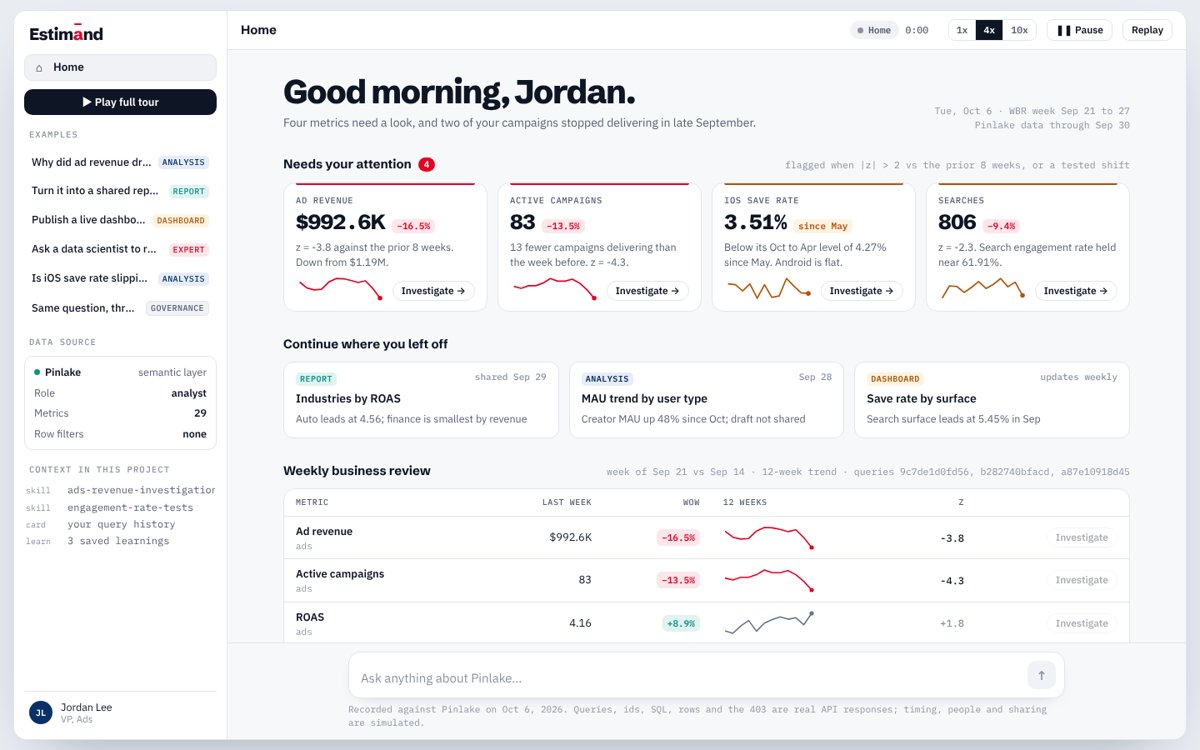
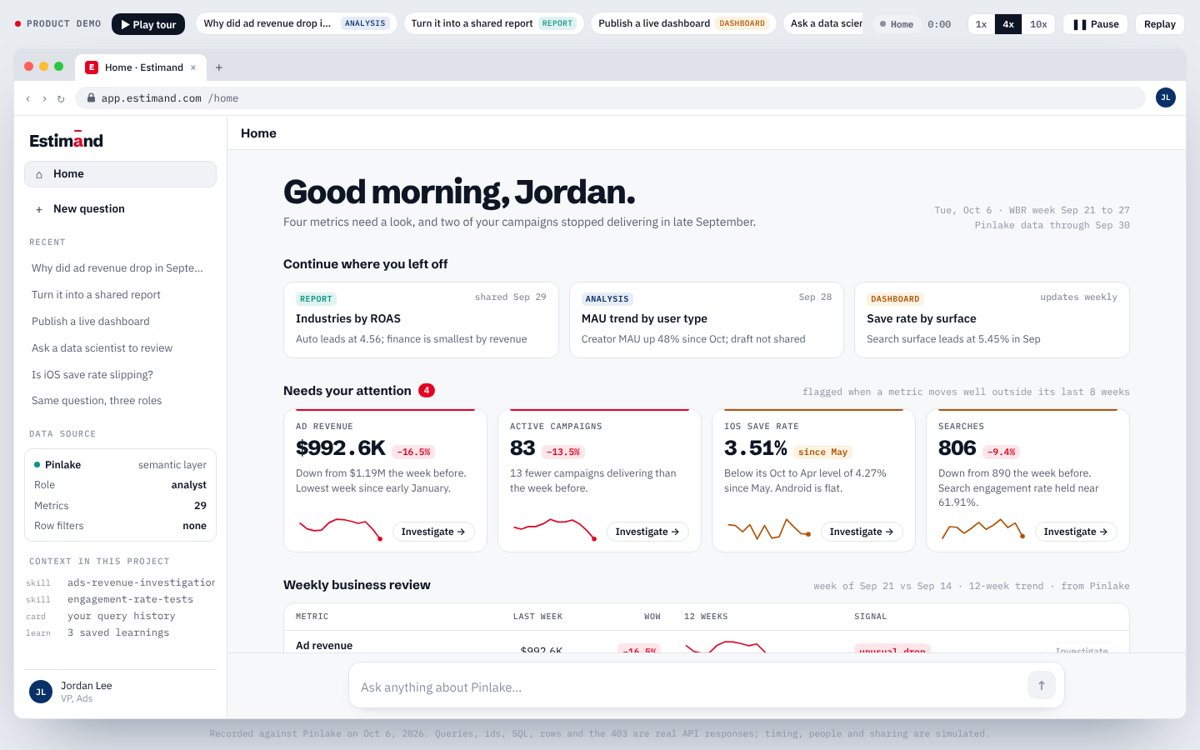
Estimand: browser frame with app.estimand.com routes, demo controls outside the app
Claude-Session: https://claude.ai/code/session_016vZX4AaXxGSjYdVQmr75ag

diff --git a/estimand/index.html b/estimand/index.html
@@ -15,6 +15,7 @@
 :root{
   --bg:#e9ecf1; --app:#f7f8fa; --surface:#ffffff; --sunk:#f0f2f6; --ink:#0e1525; --muted:#586174; --faint:#8b93a3; --line:#e1e5ec;
   --accent:#e60023; --accent-bg:#fde6ea; --navy:#0a3069; --navy-bg:#e6edf8; --teal:#0d9488; --teal-bg:#e0f3f0; --slate:#64748b; --amber:#b45309; --amber-bg:#fdf3e2;
+  --chrome:#dfe3e9;
   --code-bg:#0e1525; --code-ink:#d7deea; --code-k:#8fb0ff; --code-s:#5fd3c2; --code-c:#7f8aa0;
   --f-display:"Schibsted Grotesk","Helvetica Neue",Arial,sans-serif;
   --f-body:"IBM Plex Sans",system-ui,-apple-system,"Segoe UI",sans-serif;
@@ -23,11 +24,11 @@
 @media (prefers-color-scheme: dark){:root:not([data-theme="light"]){
   --bg:#05070c; --app:#0c1018; --surface:#121825; --sunk:#0f141e; --ink:#e7ebf2; --muted:#9aa3b5; --faint:#6b7486; --line:#232b3b;
   --accent:#ff3355; --accent-bg:#3a1520; --navy:#8fb0ff; --navy-bg:#16223a; --teal:#3cc9b6; --teal-bg:#0f2d2a; --slate:#8794aa; --amber:#f0b158; --amber-bg:#2e2412;
-  --code-bg:#070a10; color-scheme:dark}}
+  --chrome:#161b26; --code-bg:#070a10; color-scheme:dark}}
 :root[data-theme="dark"]{
   --bg:#05070c; --app:#0c1018; --surface:#121825; --sunk:#0f141e; --ink:#e7ebf2; --muted:#9aa3b5; --faint:#6b7486; --line:#232b3b;
   --accent:#ff3355; --accent-bg:#3a1520; --navy:#8fb0ff; --navy-bg:#16223a; --teal:#3cc9b6; --teal-bg:#0f2d2a; --slate:#8794aa; --amber:#f0b158; --amber-bg:#2e2412;
-  --code-bg:#070a10; color-scheme:dark}
+  --chrome:#161b26; --code-bg:#070a10; color-scheme:dark}
 *{box-sizing:border-box}
 html,body{height:100%}
 body{background:var(--bg);color:var(--ink);font:400 14.5px/1.55 var(--f-body);-webkit-font-smoothing:antialiased;padding-block:12px;padding-inline:16px}
@@ -340,6 +341,52 @@ code{font-family:var(--f-mono);font-size:.88em}
 @media (max-width:1100px){.flags{grid-template-columns:repeat(2,minmax(0,1fr))}}
 @media (max-width:820px){.cont{grid-template-columns:minmax(0,1fr)} .wbr tr .inv{opacity:1}}
 @media (max-width:520px){.flags{grid-template-columns:minmax(0,1fr)}}
+/* stage, demo strip, browser */
+html,body{height:100%}
+body{margin:0}
+.stage{height:100%;max-width:1500px;margin:0 auto;display:flex;flex-direction:column;gap:10px;min-height:0}
+.demo{display:flex;align-items:center;gap:8px 12px;flex-wrap:wrap;padding:2px 2px}
+.dlbl{display:inline-flex;align-items:center;gap:7px;font:600 11px/1 var(--f-mono);letter-spacing:.08em;text-transform:uppercase;color:var(--muted)}
+.dlbl i{width:7px;height:7px;border-radius:50%;background:var(--accent)}
+.demo .tour{padding:7px 11px;font-size:12.5px}
+.demo .exs{flex-direction:row;flex-wrap:nowrap;overflow-x:auto;gap:6px;flex:1 1 300px;min-width:0;scrollbar-width:none}
+.demo .exs::-webkit-scrollbar{display:none}
+.demo .exs button{display:inline-flex;grid-template-columns:none;width:auto;gap:6px;padding:5px 9px;border:1px solid var(--line);background:var(--surface);border-radius:999px;white-space:nowrap}
+.demo .exs b{font-size:12px;font-weight:500;max-width:22ch}
+.demo .exs em{font-size:9.5px}
+.demo .exs button[aria-current="true"]{border-color:var(--ink);background:var(--ink);color:var(--surface)}
+.demo .exs button[aria-current="true"] em{background:rgba(255,255,255,.18);color:inherit}
+.dctl{display:flex;align-items:center;gap:8px;flex-wrap:wrap;margin-left:auto}
+.browser{flex:1;min-height:0;width:100%;display:flex;flex-direction:column;background:var(--chrome);border:1px solid var(--line);border-radius:12px;overflow:hidden;box-shadow:0 1px 0 rgba(255,255,255,.4) inset,0 40px 80px -40px rgba(10,30,60,.5)}
+.bchrome{display:flex;align-items:flex-end;gap:14px;padding:8px 12px 0}
+.lights{display:flex;gap:7px;padding-bottom:12px}
+.lights i{width:11px;height:11px;border-radius:50%;background:#ff5f57}
+.lights i:nth-child(2){background:#febc2e}.lights i:nth-child(3){background:#28c840}
+.tabs{display:flex;align-items:flex-end;gap:6px;min-width:0;flex:1}
+.tab{display:flex;align-items:center;gap:8px;background:var(--surface);border-radius:9px 9px 0 0;padding:8px 12px;min-width:0;max-width:280px;font:500 12px/1 var(--f-body);color:var(--ink)}
+.tab .tt2{white-space:nowrap;overflow:hidden;text-overflow:ellipsis;min-width:0}
+.fav{flex:none;width:16px;height:16px;border-radius:4px;background:var(--accent);color:#fff;display:grid;place-items:center;font:800 10px/1 var(--f-display)}
+.tx{color:var(--faint);font-size:13px;margin-left:auto}
+.tadd{color:var(--muted);font:400 16px/1 var(--f-mono);padding:0 4px 9px}
+.btool{display:flex;align-items:center;gap:12px;background:var(--surface);padding:7px 12px;border-bottom:1px solid var(--line)}
+.bnav{display:flex;gap:10px;font:400 16px/1 var(--f-mono);color:var(--faint)}
+.bnav b{font-weight:400}
+.url{flex:1;min-width:0;display:flex;align-items:center;gap:7px;background:var(--sunk);border-radius:999px;padding:6px 14px;font:400 12.5px/1.2 var(--f-mono);overflow:hidden;white-space:nowrap}
+.url .host{color:var(--ink)}
+.url .path{color:var(--muted);overflow:hidden;text-overflow:ellipsis;transition:color .4s}
+.url .path.new{color:var(--accent)}
+.bav{flex:none;width:24px;height:24px;border-radius:50%;background:var(--navy);color:#fff;display:grid;place-items:center;font:600 9.5px/1 var(--f-mono)}
+.bload{height:2px;background:var(--surface);position:relative;overflow:hidden}
+.bload i{position:absolute;left:0;top:0;bottom:0;width:0;background:var(--accent)}
+.bload.go i{animation:load .7s ease-out forwards}
+@keyframes load{0%{width:0;opacity:1}80%{width:100%;opacity:1}100%{width:100%;opacity:0}}
+.browser .app{flex:1;height:auto;min-height:0;max-width:none;width:100%;margin:0;border:0;border-radius:0;box-shadow:none}
+.recent{list-style:none;margin:0;padding:0;display:flex;flex-direction:column;gap:1px}
+.recent button{width:100%;text-align:left;border:0;background:none;border-radius:8px;padding:7px 9px;font:400 13px/1.3 var(--f-body);color:var(--muted);white-space:nowrap;overflow:hidden;text-overflow:ellipsis}
+.recent button:hover{background:var(--sunk);color:var(--ink)}
+.recent button[aria-current="true"]{background:var(--sunk);color:var(--ink);font-weight:500}
+.cap{margin:0;text-align:center;font:400 11px/1.4 var(--f-mono);color:var(--faint)}
+@media (max-width:820px){.bchrome{display:none}.browser{border-radius:0;border-inline:0}.demo{padding-inline:12px}.cap{padding-inline:12px}.dctl{margin-left:0}}
 @media (max-width:1100px){
   .app,.app.dopen{grid-template-columns:232px minmax(0,1fr)}
   .drawer{position:absolute;inset:0 0 0 auto;width:min(620px,100%);z-index:25;transform:translateX(105%);transition:transform .4s ease;box-shadow:-20px 0 50px -30px rgba(0,0,0,.5)}
@@ -359,13 +406,29 @@ code{font-family:var(--f-mono);font-size:.88em}
 <body>
 
 
+<div class="stage">
+<div class="demo" aria-label="Demo controls">
+  <span class="dlbl"><i></i>Product demo</span>
+  <button class="tour" type="button" id="tour">▶ Play tour</button>
+  <ul class="exs" id="exs"></ul>
+  <div class="dctl">
+      <div class="rec" aria-live="polite"><span class="live" id="live"><i></i><span id="liveT">Replaying</span></span><span class="clock" id="clock">0:00</span></div>
+      <div class="seg" role="group" aria-label="Playback speed"><button type="button" data-sp="1" aria-pressed="false">1x</button><button type="button" data-sp="4" aria-pressed="true">4x</button><button type="button" data-sp="10" aria-pressed="false">10x</button></div>
+      <button class="pz" type="button" id="pause" aria-pressed="false">❚❚ Pause</button>
+      <button class="rp" type="button" id="replay">Replay</button>
+  </div>
+</div>
+<div class="browser">
+  <div class="bchrome"><span class="lights" aria-hidden="true"><i></i><i></i><i></i></span><div class="tabs"><div class="tab"><span class="fav">E</span><span class="tt2" id="tabT">Home · Estimand</span><span class="tx" aria-hidden="true">×</span></div><span class="tadd" aria-hidden="true">+</span></div></div>
+  <div class="btool"><span class="bnav" aria-hidden="true"><b>‹</b><b>›</b><b>↻</b></span><div class="url" id="url"><svg width="11" height="12" viewBox="0 0 11 12" aria-hidden="true"><rect x="1" y="5" width="9" height="6.5" rx="1.5" style="fill:var(--muted)"/><path d="M3 5V3.6a2.5 2.5 0 015 0V5" style="fill:none;stroke:var(--muted);stroke-width:1.4"/></svg><span class="host">app.estimand.com</span><span class="path" id="urlP">/home</span></div><span class="bav" id="tbAv">JL</span></div>
+  <div class="bload" id="bload"><i></i></div>
 <div class="app" id="app">
   <aside class="side" aria-label="Sidebar">
     <span class="logo">Estim<span class="hat">a</span>nd</span>
     <button class="navb" type="button" id="homeB" aria-current="true"><i>⌂</i>Home</button>
-    <button class="tour" type="button" id="tour">▶ Play full tour</button>
-    <div class="slbl">Examples</div>
-    <ul class="exs" id="exs"></ul>
+    <button class="navb" type="button" id="newB"><i>+</i>New question</button>
+    <div class="slbl">Recent</div>
+    <ul class="recent" id="recent"></ul>
     <div class="slbl">Data source</div>
     <div class="src" id="src">
       <div class="row"><b><span class="dot"></span>Pinlake</b><span>semantic layer</span></div>
@@ -386,20 +449,19 @@ code{font-family:var(--f-mono);font-size:.88em}
   <section class="main" id="main">
     <div class="mbar">
       <h1 id="ttl">New question</h1>
-      <div class="rec" aria-live="polite"><span class="live" id="live"><i></i><span id="liveT">Replaying</span></span><span class="clock" id="clock">0:00</span></div>
-      <div class="seg" role="group" aria-label="Playback speed"><button type="button" data-sp="1" aria-pressed="false">1x</button><button type="button" data-sp="4" aria-pressed="true">4x</button><button type="button" data-sp="10" aria-pressed="false">10x</button></div>
-      <button class="pz" type="button" id="pause" aria-pressed="false">❚❚ Pause</button>
-      <button class="rp" type="button" id="replay">Replay</button>
+
     </div>
     <div class="thread" id="thread"><div class="tin" id="tin"></div></div>
     <div class="comp">
       <div class="box" id="box"><div class="inp" id="inp"><span class="ph">Ask about ads, engagement, search or growth…</span></div><button class="send" id="send" type="button" aria-label="Send">↑</button></div>
-      <div class="chint">Recorded against Pinlake on Oct 6, 2026. Queries, ids, SQL, rows and the 403 are real API responses; timing, people and sharing are simulated.</div>
     </div>
   </section>
 
   <aside class="drawer" id="drawer" aria-label="Artifact"></aside>
   <div class="cur" id="cur" aria-hidden="true"><svg width="22" height="22" viewBox="0 0 22 22"><path d="M3 2l14 8-6.2 1.6L8 18z" style="fill:#0e1525;stroke:#fff;stroke-width:1.4;stroke-linejoin:round"/></svg></div>
+</div>
+</div>
+<p class="cap">Recorded against Pinlake on Oct 6, 2026. Queries, ids, SQL, rows and the 403 are real API responses; timing, people and sharing are simulated.</p>
 </div>
 
 <script>
@@ -593,7 +655,7 @@ const SECS=[
  ["What to watch","chart",()=>`<div class="chart">${daily()}</div><p>Sep 30 ran at ${K(F.sep30_rev)} a day across ${F.sep30_camps} campaigns. October opens lower unless new campaigns launch.</p>`],
  ["Method","6 queries",()=>`<p>Six governed queries against Pinlake's <code>/v1/query</code>; campaigns matched across months; totals reconciled to the cent. Open question: Pinlake has no planned campaign end dates.</p>`]];
 async function buildReport(){
- openDrawer(REPORT());await sleep(700);const doc=$("#doc");
+ openDrawer(REPORT());route("/reports/sep-ad-revenue-campaign-turnover","September ad revenue report");await sleep(700);const doc=$("#doc");
  for(const [h,tag,f] of SECS){const s=el("div","sec",`<h3>${h}${tag?` <span>${tag}</span>`:""}</h3><div class="pend"></div><div class="pend"></div>`);doc.appendChild(s);$(".dbody").scrollTop=1e6;await sleep(700);s.innerHTML=`<h3>${h}${tag?` <span>${tag}</span>`:""}</h3>${f()}`;await sleep(500)}
  $(".dbody").scrollTop=0}
 
@@ -609,12 +671,17 @@ const DASH=()=>{const lowDays=D.daily.d.filter((d,i)=>D.daily.rev[i]<THR);return
 </div></div>`};
 const KPIS=[["Ad revenue, Sep",M(F.sep_total),sg(dropPct)+" vs Aug","dn"],["Daily revenue, Sep 30",K(F.sep30_rev),"below $130K alert line","dn",1],["Active campaigns, Sep 30",String(F.sep30_camps),"Aug avg "+Math.round(F.aug_avg_camps),"dn"],["ROAS, Sep",F.roas_sep.toFixed(2),"12-month high","up"]];
 async function buildDash(){
- openDrawer(DASH());await sleep(600);const k=$("#kpis");
+ openDrawer(DASH());route("/dashboards/ads-health","Ads Health");await sleep(600);const k=$("#kpis");
  for(const [l,v,d,c,a] of KPIS){k.insertAdjacentHTML("beforeend",`<div class="kpi${a?" alert":""}"><small>${l}</small><b>${v}</b><span class="${c}">${d}</span></div>`);await sleep(350)}
  $("#refT").textContent="last refresh: Oct 6, 6:00 AM ET"}
 
 /* ---------- modal ---------- */
 function modal(html){const s=el("div","scrim",`<div class="modal">${html}</div>`);app.appendChild(s);return s}
+
+/* ---------- browser routing ---------- */
+const slug=s=>s.toLowerCase().replace(/[^a-z0-9]+/g,"-").replace(/^-|-$/g,"").slice(0,48);
+function route(path,title){const p=$("#urlP");if(p.textContent!==path){p.textContent=path;p.classList.add("new");setTimeout(()=>p.classList.remove("new"),900);const b=$("#bload");b.classList.remove("go");void b.offsetWidth;b.classList.add("go")}$("#tabT").textContent=(title||"Estimand")+" · Estimand";document.title="Estimand on Pinlake"}
+function setT(t){$("#ttl").textContent=t;route("/c/"+slug(t),t)}
 
 /* ================= HOME ================= */
 const H=D.H;
@@ -635,7 +702,7 @@ function statusOf(c){if(c.last<"2026-09-01")return `<span class="st2 off"><i></i
 const mon3=["Jan","Feb","Mar","Apr","May","Jun","Jul","Aug","Sep","Oct","Nov","Dec"];const day=d=>mon3[+d.slice(5,7)-1]+" "+(+d.slice(8));
 function renderHome(){
  closeDrawer();tin.className="tin wide";tin.innerHTML="";setInput("",false);inp.innerHTML='<span class="ph">Ask anything about Pinlake…</span>';
- $("#ttl").textContent="Home";setUser("Jordan Lee","JL","VP, Ads");$("#roleT").textContent="analyst";$("#metT").textContent="29";$("#rfT").textContent="none";
+ route("/home","Home");$("#ttl").textContent="Home";setUser("Jordan Lee","JL","VP, Ads");$("#roleT").textContent="analyst";$("#metT").textContent="29";$("#rfT").textContent="none";
  const own=H.own.slice().sort((a,b)=>b.q3-a.q3);
  tin.innerHTML=`<div class="home" id="home">
  <div class="hhead"><div><h2>Good morning, Jordan.</h2><p>Four metrics need a look, and two of your campaigns stopped delivering in late September.</p></div><div class="asof">Tue, Oct 6 · WBR week Sep 21 to 27<br>Pinlake data through Sep 30</div></div>
@@ -658,14 +725,14 @@ async function prefill(q){goHome();await new Promise(r=>setTimeout(r,50));setInp
 
 /* ================= FLOWS ================= */
 const Q1="Why did ad revenue drop in September?";
-function setUser(n,i,r){$("#meN").textContent=n;$("#meAv").textContent=i;$("#meR").textContent=r}
+function setUser(n,i,r){$("#tbAv").textContent=i;$("#meN").textContent=n;$("#meAv").textContent=i;$("#meR").textContent=r}
 function setRole(role,met,rf){$("#roleT").textContent=role;$("#metT").textContent=met;$("#rfT").textContent=rf;const s=$("#src");s.classList.add("hot");setTimeout(()=>s.classList.remove("hot"),1400)}
-function newChat(sugg){tin.className="tin";tin.innerHTML=`<div class="empty"><h2>What do you want to know?</h2><p>Ask in plain English. Estimand reads your team's context, queries Pinlake's governed metrics, and shows every step.</p><div class="sugg">${sugg.map(s=>`<span>${s}</span>`).join("")}</div></div>`;closeDrawer();setInput("",false);$("#ttl").textContent="New question"}
+function newChat(sugg){tin.className="tin";tin.innerHTML=`<div class="empty"><h2>What do you want to know?</h2><p>Ask in plain English. Estimand reads your team's context, queries Pinlake's governed metrics, and shows every step.</p><div class="sugg">${sugg.map(s=>`<span>${s}</span>`).join("")}</div></div>`;closeDrawer();setInput("",false);$("#ttl").textContent="New question";route("/new","New question")}
 
 async function flowRevenue(){
  setUser("Jordan Lee","JL","VP, Ads");setRole("analyst","29","none");
  newChat(["Top 5 industries by ROAS in 2026","MAU trend by user type",Q1]);
- await sleep(1000);await ask(Q1);$("#ttl").textContent=Q1;agent();
+ await sleep(1000);await ask(Q1);setT(Q1);agent();
  await ctx("c1",[
   ["catalog",`Pinlake <code>/v1/catalog</code> as analyst`,"29 metrics, 29 dimensions, raw SQL allowed, no row filters"],
   ["metric",`<code>ad_revenue</code>`,"SUM(spend_usd) on marts.fct_ad_performance_daily"],
@@ -730,7 +797,7 @@ async function flowReport(){
  sysLine(`Report shared with <b>Maya Kim, Dev Patel, Sam Ortiz, Rosa Alvarez</b> and <b>#ads-leadership</b>`);await sleep(1600)}
 
 async function flowDash(){
- closeDrawer();await sleep(500);
+ closeDrawer();setT(Q1);await sleep(500);
  await ask("Publish a dashboard that tracks this daily, and alert me if revenue drops under $130K a day");agent();
  await ctx("c3",[["metric",`<code>ad_revenue</code>, <code>active_campaigns</code>, <code>roas</code>`,"grain: day; refreshed in Pinlake nightly"],["thread","this conversation","waterfall and daily charts reused as panels"]],"Reading dashboard context");
  await sql("q6","Daily revenue and active campaigns (dashboard source)","ads_day",prev("ads_day",r=>r[1]<THR),{metrics:"ad_revenue, active_campaigns",wait:900});
@@ -751,7 +818,7 @@ async function flowDash(){
  sysLine(`<b>Ads Health</b> is live · refreshes daily 6:00 AM ET · posted to #ads-leadership`);await sleep(1600)}
 
 async function flowExpert(){
- closeDrawer();await sleep(400);
+ closeDrawer();setT(Q1);await sleep(400);
  await ask("Can a data scientist check this before Monday?");agent();
  status("packaging context");const s=step("t","e1","Packaging the work for review…");await sleep(1200);
  title(s,"Packaged for review");body(s,`<ul class="as"><li>Question, answer and report link</li><li>6 queries with SQL, row counts and query ids</li><li>4 stated assumptions · 1 rejected hypothesis</li><li>Open question: campaigns are matched by name; Pinlake exposes no campaign_id dimension</li></ul>`);fin(s);await sleep(1200);
@@ -764,7 +831,7 @@ async function flowExpert(){
  const xm=$("#xm");
  for(const l of lines){const p=el("p","","");xm.appendChild(p);const w=l.split(" ");if(FAST)p.textContent=l;else for(let i=1;i<=w.length;i++){p.textContent=w.slice(0,i).join(" ");scrollEnd();await sleep(70)}await sleep(500)}
  await sleep(600);
- openDrawer(REPORT());const doc=$("#doc");SECS.forEach(([h,t,f])=>doc.insertAdjacentHTML("beforeend",`<div class="sec"><h3>${h}${t?` <span>${t}</span>`:""}</h3>${f()}</div>`));
+ openDrawer(REPORT());route("/reports/sep-ad-revenue-campaign-turnover?review=priya-raman","September ad revenue report");const doc=$("#doc");SECS.forEach(([h,t,f])=>doc.insertAdjacentHTML("beforeend",`<div class="sec"><h3>${h}${t?` <span>${t}</span>`:""}</h3>${f()}</div>`));
  $("#rStat").className="pill ok";$("#rStat").textContent="Shared · 5";await sleep(700);
  $("#revw").innerHTML=`<div class="revw"><span class="av">PR</span><span><b>Reviewed by Priya Raman</b>, Ads Data Science · Oct 6 · "Reconciliation holds; end dates requested from Sales Ops."</span></div>`;
  $("#rStat").textContent="Reviewed ✓";
@@ -774,7 +841,7 @@ async function flowExpert(){
 async function flowIOS(){
  setUser("Jordan Lee","JL","VP, Ads");setRole("analyst","29","none");
  newChat(["Monthly saves and save rate on iOS","Outbound CTR by surface","Is iOS save rate slipping?"]);
- const QI="Is iOS save rate slipping?";await sleep(900);await ask(QI);$("#ttl").textContent=QI;agent();
+ const QI="Is iOS save rate slipping?";await sleep(900);await ask(QI);setT(QI);agent();
  await ctx("c4",[["metric",`<code>save_rate</code>`,"saves / impressions on marts.fct_pin_engagement"],["dimension",`<code>pin_engagement.platform</code>, <code>.surface</code>`,"ios, android, web; 5 surfaces"],["skill",`<code>engagement-rate-tests.md</code>`,"compare rates with a two-proportion test; check other platforms as controls"],["learning","from a past chat","Pinlake has no app release log"]]);
  await assume("a4",["Save rate = saves / organic impressions","Monthly, Oct 2025 to Sep 2026","Android and web act as controls for iOS-only changes"]);
  await sql("q7","Saves, impressions and save rate by month and platform","plat_month",table(["month","platform","saves","impressions","save_rate"],[["2026-04","ios",333,7729,333/7729],["2026-05","ios",320,8504,320/8504],["2026-05","android",288,7686,288/7686]],r=>r[0]==="2026-05"&&r[1]==="ios"),{metrics:"saves, impressions, save_rate"});
@@ -803,7 +870,7 @@ async function flowGov(){
  setUser("Sam Ortiz","SO","Ads Sales, North America");setRole("ads_sales_na","13","US, CA, MX");
  newChat(["Ad revenue by country last quarter","Top advertisers by ROAS","CPM by platform"]);
  sysLine(`Signed in as <b>Sam Ortiz</b> · Pinlake role <b>ads_sales_na</b>`);
- await sleep(900);await ask(QG);$("#ttl").textContent=QG;agent();
+ await sleep(900);await ask(QG);setT(QG);agent();
  await ctx("c5",[["catalog",`Pinlake <code>/v1/catalog</code> as ads_sales_na`,"13 ads metrics; no engagement or growth metrics; raw SQL off"],["policy","row filter","ad_performance.country in (US, CA, MX), applied by Pinlake"]],"Reading role and catalog");
  await sql("q9","Ad revenue, ROAS and CPM by country, Jul 1 to Sep 30","na_country",table(["country","ad_revenue","roas","cpm"],X.na),{metrics:"ad_revenue, roas, cpm",role:"ads_sales_na",wait:1100});
  await closeWork();
@@ -839,8 +906,9 @@ const EX=[
  {t:"Ask a data scientist to review",tag:"expert",c:"exp",pre:[0,1],f:flowExpert},
  {t:"Is iOS save rate slipping?",tag:"analysis",c:"",pre:[],f:flowIOS},
  {t:"Same question, three roles",tag:"governance",c:"gov",pre:[],f:flowGov}];
+$("#recent").innerHTML=EX.map((e,i)=>`<li><button type="button" data-ex="${i}" aria-current="false">${esc(e.t)}</button></li>`).join("");
 $("#exs").innerHTML=EX.map((e,i)=>`<li><button type="button" data-ex="${i}" aria-current="false"><b>${esc(e.t)}</b><em class="${e.c}">${e.tag}</em></button></li>`).join("");
-const mark=i=>{document.querySelectorAll("#exs button").forEach(b=>b.setAttribute("aria-current",+b.dataset.ex===i));if(i>=0)$("#homeB").setAttribute("aria-current","false")};
+const mark=i=>{document.querySelectorAll("[data-ex]").forEach(b=>b.setAttribute("aria-current",+b.dataset.ex===i));if(i>=0)$("#homeB").setAttribute("aria-current","false")};
 
 async function play(i,tour){
  const my=++RUN;simT=0;running=true;FAST=false;PAUSED=false;setPause(false);hideCur();app.querySelectorAll(".scrim,.toast").forEach(x=>x.remove());
@@ -874,6 +942,7 @@ document.addEventListener("click",e=>{
 });
 $("#tour").addEventListener("click",()=>play(0,true));
 $("#homeB").addEventListener("click",goHome);
+$("#newB").addEventListener("click",()=>{goHome();newChat(["Top 5 industries by ROAS in 2026","MAU trend by user type","Why did ad revenue drop in September?"]);inp.innerHTML='<span class="ph">Ask about ads, engagement, search or growth…</span>';$("#homeB").setAttribute("aria-current","false")});
 $("#pause").addEventListener("click",()=>{if(running)setPause(!PAUSED)});
 $("#replay").addEventListener("click",()=>play(+(document.querySelector('#exs [aria-current="true"]')?.dataset.ex||0),false));
 renderHome();$("#live").className="live idle";$("#liveT").textContent="Home";
